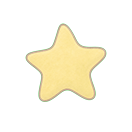
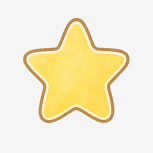
design: ics

Changed region(s): [[0.1212, 0.0909, 0.8485, 0.8182]]

diff --git a/src/pages/Home/WeeklyReport/WeeklyReport.jsx b/src/pages/Home/WeeklyReport/WeeklyReport.jsx
@@ -113,6 +113,7 @@ const ThisWeekCard = styled.div`
 
   padding: 16px;
   border-radius: 18px;
+  border: 3px solid rgba(143, 174, 74, 0.5);
   background: #edf2d4;
 `;
 
@@ -211,27 +212,33 @@ const Badge = styled.span`
   white-space: nowrap;
 `;
 
+// 폭을 고정하고 왼쪽 정렬해야, 한 줄평 길이가 주마다 달라도 연필 아이콘이
+// 항상 같은 자리에 온다(Figma는 오른쪽 정렬이라 짧은 한 줄평일수록 연필이
+// 오락가락해서, 아이콘 기준으로 어긋나 보였다).
 const EditLabel = styled.div`
   display: flex;
   align-items: center;
+  justify-content: flex-start;
   gap: 6px;
-  min-width: 0;
+  width: 167px;
+  flex-shrink: 0;
 `;
 
 const PencilIcon = styled.img`
-  width: 26px;
-  height: 26px;
+  width: 22px;
+  height: 22px;
   flex-shrink: 0;
   object-fit: contain;
 `;
 
-// 한 줄평이 길면 줄이 밀려서 주차 이름을 덮는다. 넘치면 말줄임으로 자른다.
+// 한 줄평이 길면 넘치는 만큼 말줄임으로 자른다.
 const EditText = styled.span`
+  min-width: 0;
   font-family: 'Noto Sans KR';
   font-size: 16px;
   font-weight: 700;
   color: #3f5a1b;
-  text-align: right;
+  text-align: left;
   overflow: hidden;
   text-overflow: ellipsis;
   white-space: nowrap;

diff --git a/src/pages/Home/WeeklyReport/WeeklyReportDetail.jsx b/src/pages/Home/WeeklyReport/WeeklyReportDetail.jsx
@@ -404,12 +404,13 @@ const StarIcon = styled.img`
   object-fit: contain;
 `;
 
-// 요일 글자는 별 그림 한가운데에 얹는다.
+// 요일 글자는 별 그림 한가운데에 얹는다. 별 몸통(뾰족한 꼭짓점 안쪽)이
+// 생각보다 좁아서, 15px로는 글자가 꼭짓점 밖으로 삐져나왔다.
 const DayButtonLabel = styled.span`
   position: relative;
   color: #4a3a2f;
   font-family: Jua;
-  font-size: 15px;
+  font-size: 11px;
   line-height: 1;
 `;
 
